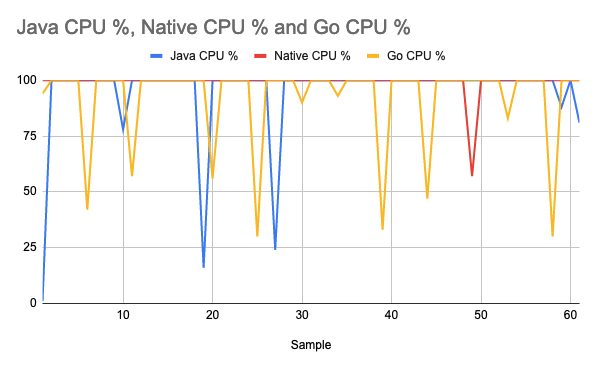
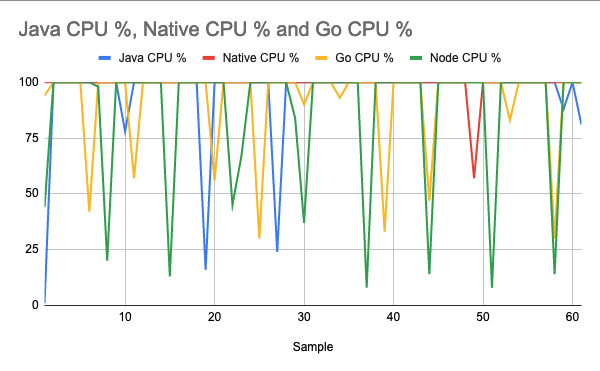
Add nodejs results.

Changed region(s): [[0.0302, 0.1784, 0.995, 0.8622], [0.0302, 0.0297, 0.8442, 0.1784], [0.4824, 0.9216, 0.5729, 0.9514]]

diff --git a/project-webflux/README.md b/project-webflux/README.md
@@ -71,20 +71,19 @@ for i in {1..100}; do ab -n 500 -c 20 "http://localhost:8080/city/" ; sleep 1; d
 ### The Average Response Times
 Java, Native compiled Java and Go application results.
 ```
-Percent,	Java Response AVR (ms), 	Native Response AVR (ms),	Go AVR Response
-50%	    265.75	615.5	138.25
-66%	    298.25	655.25	171
-75%	    320.5	697.75	189.75
-80%	    334.25	725.5	201
-90%	    378.25	784.75	234.75
-95%	    412.25	850	    262.75
-98%	    458.25	934	    298
-99%	    480.25	982	    354
-100%	534.5	1073.5	467.75
+Percent,	Java Response AVR (ms), 	Native Response AVR (ms),	Go AVR Response(ms), Node AVR Res(ms)
+50%	    265.75	615.5	138.25	237.75
+66%	    298.25	655.25	171	    255.25
+75%	    320.5	697.75	189.75	270.25
+80%	    334.25	725.5	201	    284.25
+90%	    378.25	784.75	234.75	333.75
+95%	    412.25	850	    262.75	375.5
+98%	    458.25	934	    298	    430.75
+99%	    480.25	982	    354	    73
+100%	534.5	1073.5	467.75	547.75
 ```
 
 ![Average Repsonse Time](images/average-response-time.png "Average Repsonse Time")
-
 
 
 
@@ -96,69 +95,69 @@ These values are of 16GB of memory, therefore;
 * 0.25 percent approximately equals to **40MB**
 
 ```
-Java Memory %	Native Memory %	GO Memory %
-5.37	3.39	0.21
-5.39	3.56	0.22
-5.4	    3.76	0.23
-5.4	    3.92	0.23
-5.41	4.16	0.23
-5.41	4.32	0.23
-5.42	4.49	0.24
-5.43	4.5	    0.24
-5.44	4.54	0.24
-5.44	4.5	    0.24
-5.44	4.54	0.24
-5.45	4.5	    0.24
-5.45	4.54	0.24
-5.46	4.5	    0.24
-5.46	4.53	0.24
-5.47	4.48	0.24
-5.48	4.49	0.24
-5.48	4.5	    0.24
-5.48	4.47	0.24
-5.48	4.51	0.24
-5.49	4.54	0.24
-5.51	4.51	0.24
-5.51	4.55	0.24
-5.52	4.5	    0.24
-5.52	4.54	0.24
-5.52	4.5	    0.24
-5.52	4.53	0.24
-5.53	4.49	0.24
-5.53	4.53	0.24
-5.55	4.49	0.24
-5.57	4.52	0.24
-5.57	4.49	0.24
-5.59	4.55	0.24
-5.59	4.51	0.24
-5.59	4.55	0.24
-5.6	    4.51	0.24
-5.6	    4.55	0.24
-5.6	    4.51	0.24
-5.6	    4.54	0.24
-5.6	    4.49	0.25
-5.61	4.54	0.25
-5.61	4.5	    0.25
-5.61	4.53	0.25
-5.61	4.49	0.25
-5.61	4.53	0.25
-5.61	4.48	0.25
-5.63	4.51	0.25
-5.63	4.48	0.25
-5.63	4.52	0.25
-5.63	4.54	0.25
-5.64	4.54	0.25
-5.64	4.51	0.25
-5.64	4.54	0.25
-5.65	4.5	    0.25
-5.65	4.53	0.25
-5.65	4.5	    0.25
-5.65	4.52	0.25
-5.65	4.48	0.25
-5.65	4.52	0.25
-5.65	4.48	0.25
-5.65	4.52	0.25
-5.65	4.48	0.25
+Sample	Java Memory %	Native Memory %	GO Memory %	Node Memory %
+1	5.37	3.39	0.21	0.5
+2	5.39	3.56	0.22	0.56
+3	5.4     3.76	0.23	0.56
+4	5.4     3.92	0.23	0.56
+5	5.41	4.16	0.23	0.57
+6	5.41	4.32	0.23	0.57
+7	5.42	4.49	0.24	0.53
+8	5.43	4.5     0.24	0.6
+9	5.44	4.54	0.24	0.51
+10	5.44	4.5     0.24	0.56
+11	5.44	4.54	0.24	0.59
+12	5.45	4.5     0.24	0.57
+13	5.45	4.54	0.24	0.6
+14	5.46	4.5     0.24	0.56
+15	5.46	4.53	0.24	0.64
+16	5.47	4.48	0.24	0.58
+17	5.48	4.49	0.24	0.55
+18	5.48	4.5     0.24	0.57
+19	5.48	4.47	0.24	0.58
+20	5.48	4.51	0.24	0.64
+21	5.49	4.54	0.24	0.58
+22	5.51	4.51	0.24	0.48
+23	5.51	4.55	0.24	0.53
+24	5.52	4.5     0.24	0.56
+25	5.52	4.54	0.24	0.53
+26	5.52	4.5     0.24	0.56
+27	5.52	4.53	0.24	0.57
+28	5.53	4.49	0.24	0.54
+29	5.53	4.53	0.24	0.56
+30	5.55	4.49	0.24	0.68
+31	5.57	4.52	0.24	0.6
+32	5.57	4.49	0.24	0.57
+33	5.59	4.55	0.24	0.51
+34	5.59	4.51	0.24	0.56
+35	5.59	4.55	0.24	0.63
+36	5.6     4.51	0.24	0.53
+37	5.6     4.55	0.24	0.57
+38	5.6     4.51	0.24	0.56
+39	5.6     4.54	0.24	0.58
+40	5.6     4.49	0.25	0.61
+41	5.61	4.54	0.25	0.61
+42	5.61	4.5     0.25	0.56
+43	5.61	4.53	0.25	0.53
+44	5.61	4.49	0.25	0.58
+45	5.61	4.53	0.25	0.54
+46	5.61	4.48	0.25	0.57
+47	5.63	4.51	0.25	0.59
+48	5.63	4.48	0.25	0.6
+49	5.63	4.52	0.25	0.67
+50	5.63	4.54	0.25	0.57
+51	5.64	4.54	0.25	0.5
+52	5.64	4.51	0.25	0.5
+53	5.64	4.54	0.25	0.5
+54	5.65	4.50	0.25	0.25
+55	5.65	4.53	0.25	0.24
+56	5.65	4.5	    0.25	0.57
+57	5.65	4.52	0.25	0.5
+58	5.65	4.48	0.25	0.5
+59	5.65	4.52	0.25	0.5
+60	5.65	4.48	0.25	0.25
+61	5.65	4.52	0.25	0.53
+62	5.65	4.48	0.25	0.58
 ```
 
 ![Memory Percentages](images/memory-percentages.png "Memory Percentages")
@@ -168,68 +167,68 @@ Java Memory %	Native Memory %	GO Memory %
 ### The CPU Percentages
 Java, Native compiled Java and Go application results.
 ```
-Java,	Native, Go
-1	100	94
-100	100	100
-100	100	100
-100	100	100
-100	100	100
-100	100	42
-100	100	100
-100	100	100
-100	100	100
-78	100	100
-100	100	57
-100	100	100
-100	100	100
-100	100	100
-100	100	100
-100	100	100
-100	100	100
-100	100	100
-16	100	100
-100	100	56
-100	100	100
-100	100	100
-100	100	100
-100	100	100
-100	100	30
-100	100	100
-24	100	100
-100	100	100
-100	100	100
-100	100	90
-100	100	100
-100	100	100
-100	100	100
-100	100	93
-100	100	100
-100	100	100
-100	100	100
-100	100	100
-100	100	33
-100	100	100
-100	100	100
-100	100	100
-100	100	100
-100	100	47
-100	100	100
-100	100	100
-100	100	100
-100	100	100
-100	57	100
-100	100	100
-100	100	100
-100	100	100
-100	100	83
-100	100	100
-100	100	100
-100	100	100
-100	100	100
-100	100	30
-88	100	100
-100	100	100
-81	100	100
+Java,	Native, Go, Node
+1	100	94	44
+100	100	100	100
+100	100	100	100
+100	100	100	100
+100	100	100	100
+100	100	42	100
+100	100	100	98
+100	100	100	20
+100	100	100	100
+78	100	100	100
+100	100	57	100
+100	100	100	100
+100	100	100	100
+100	100	100	100
+100	100	100	13
+100	100	100	100
+100	100	100	100
+100	100	100	100
+16	100	100	100
+100	100	56	100
+100	100	100	100
+100	100	100	45
+100	100	100	67
+100	100	100	100
+100	100	30	100
+100	100	100	100
+24	100	100	100
+100	100	100	100
+100	100	100	84
+100	100	90	37
+100	100	100	100
+100	100	100	100
+100	100	100	100
+100	100	93	100
+100	100	100	100
+100	100	100	100
+100	100	100	8
+100	100	100	100
+100	100	33	100
+100	100	100	100
+100	100	100	100
+100	100	100	100
+100	100	100	100
+100	100	47	14
+100	100	100	100
+100	100	100	100
+100	100	100	100
+100	100	100	100
+100	57	100	100
+100	100	100	100
+100	100	100	8
+100	100	100	100
+100	100	83	100
+100	100	100	100
+100	100	100	100
+100	100	100	100
+100	100	100	100
+100	100	30	14
+88	100	100	100
+100	100	100	100
+81	100	100	100
 ```
 
 ![CPU Percentages](images/cpu-percentages.png "CPU Percentages")
